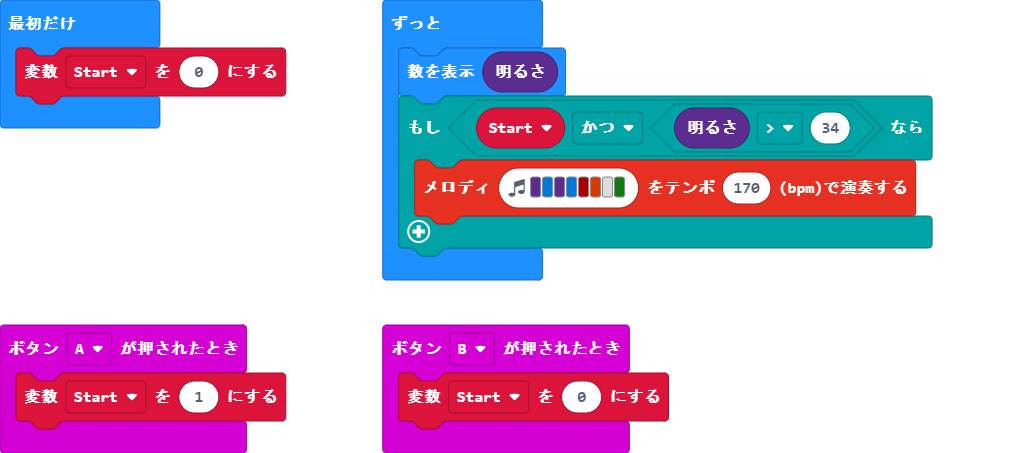
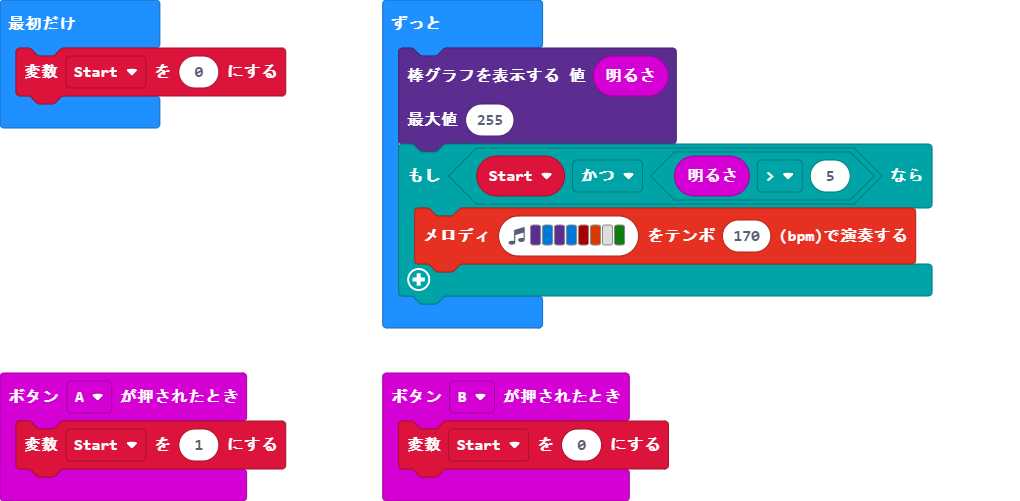
更新 main.blocks, main.ts

diff --git a/main.ts b/main.ts
@@ -7,8 +7,11 @@ input.onButtonPressed(Button.B, function () {
 let Start = 0
 Start = 0
 basic.forever(function () {
-    basic.showNumber(led.brightness())
-    if (Start && led.brightness() > 34) {
+    led.plotBarGraph(
+    input.lightLevel(),
+    255
+    )
+    if (Start && input.lightLevel() > 5) {
         music.playMelody("D E D E C5 B - G ", 170)
     }
 })
